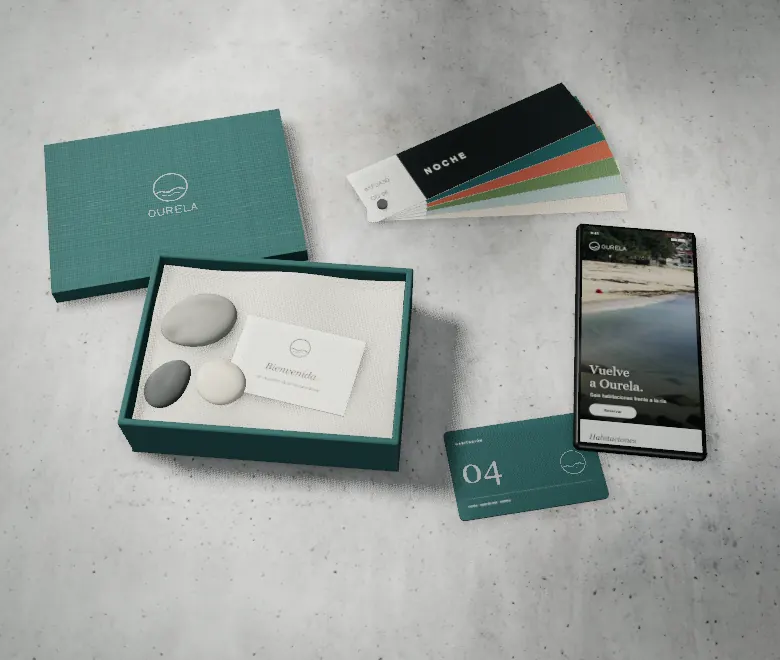
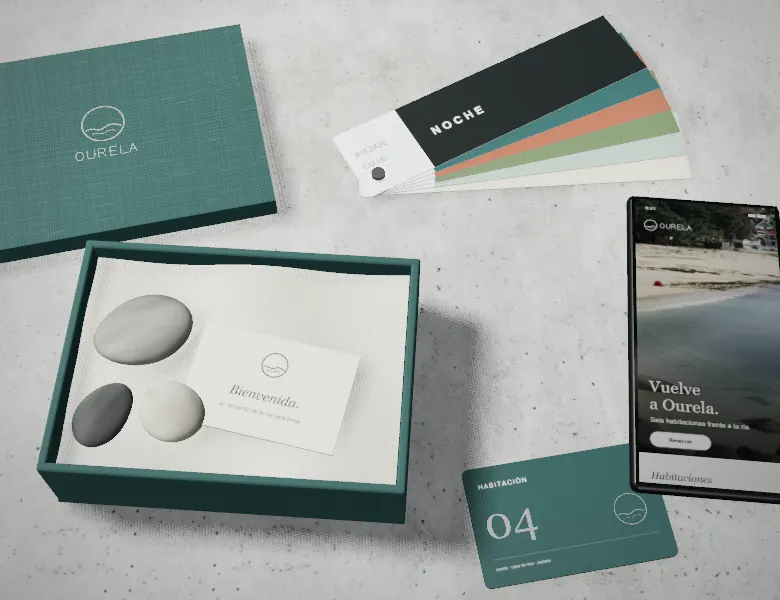
Identity scene: phone framing eased so nothing is cut; both loading stills redone from the final scene

diff --git a/src/components/Identity/StationeryScene.tsx b/src/components/Identity/StationeryScene.tsx
@@ -1341,7 +1341,7 @@ async function build(host: HTMLDivElement, onReady: () => void, paused: { curren
     // (never closer than the wide frame's 30°: a frame just short of 16:9, as the studio's can be by a pixel,
     // used to jump in close)
     // (wide and nearly wide frames all at 30°; only a phone's narrow one gets its own, closer view)
-    camera.fov = camera.aspect >= 1.4 ? 30 : THREE.MathUtils.radToDeg(2 * Math.atan((Math.tan(half) * 0.6) / camera.aspect));
+    camera.fov = camera.aspect >= 1.4 ? 30 : THREE.MathUtils.radToDeg(2 * Math.atan((Math.tan(half) * 0.7) / camera.aspect));
     // a narrow frame (a phone's) also aims a little further back on the table, so the pieces sit lower and
     // no empty band is left beneath them
     aimBack = camera.aspect >= 1.4 ? 0.1 : 0.2;
